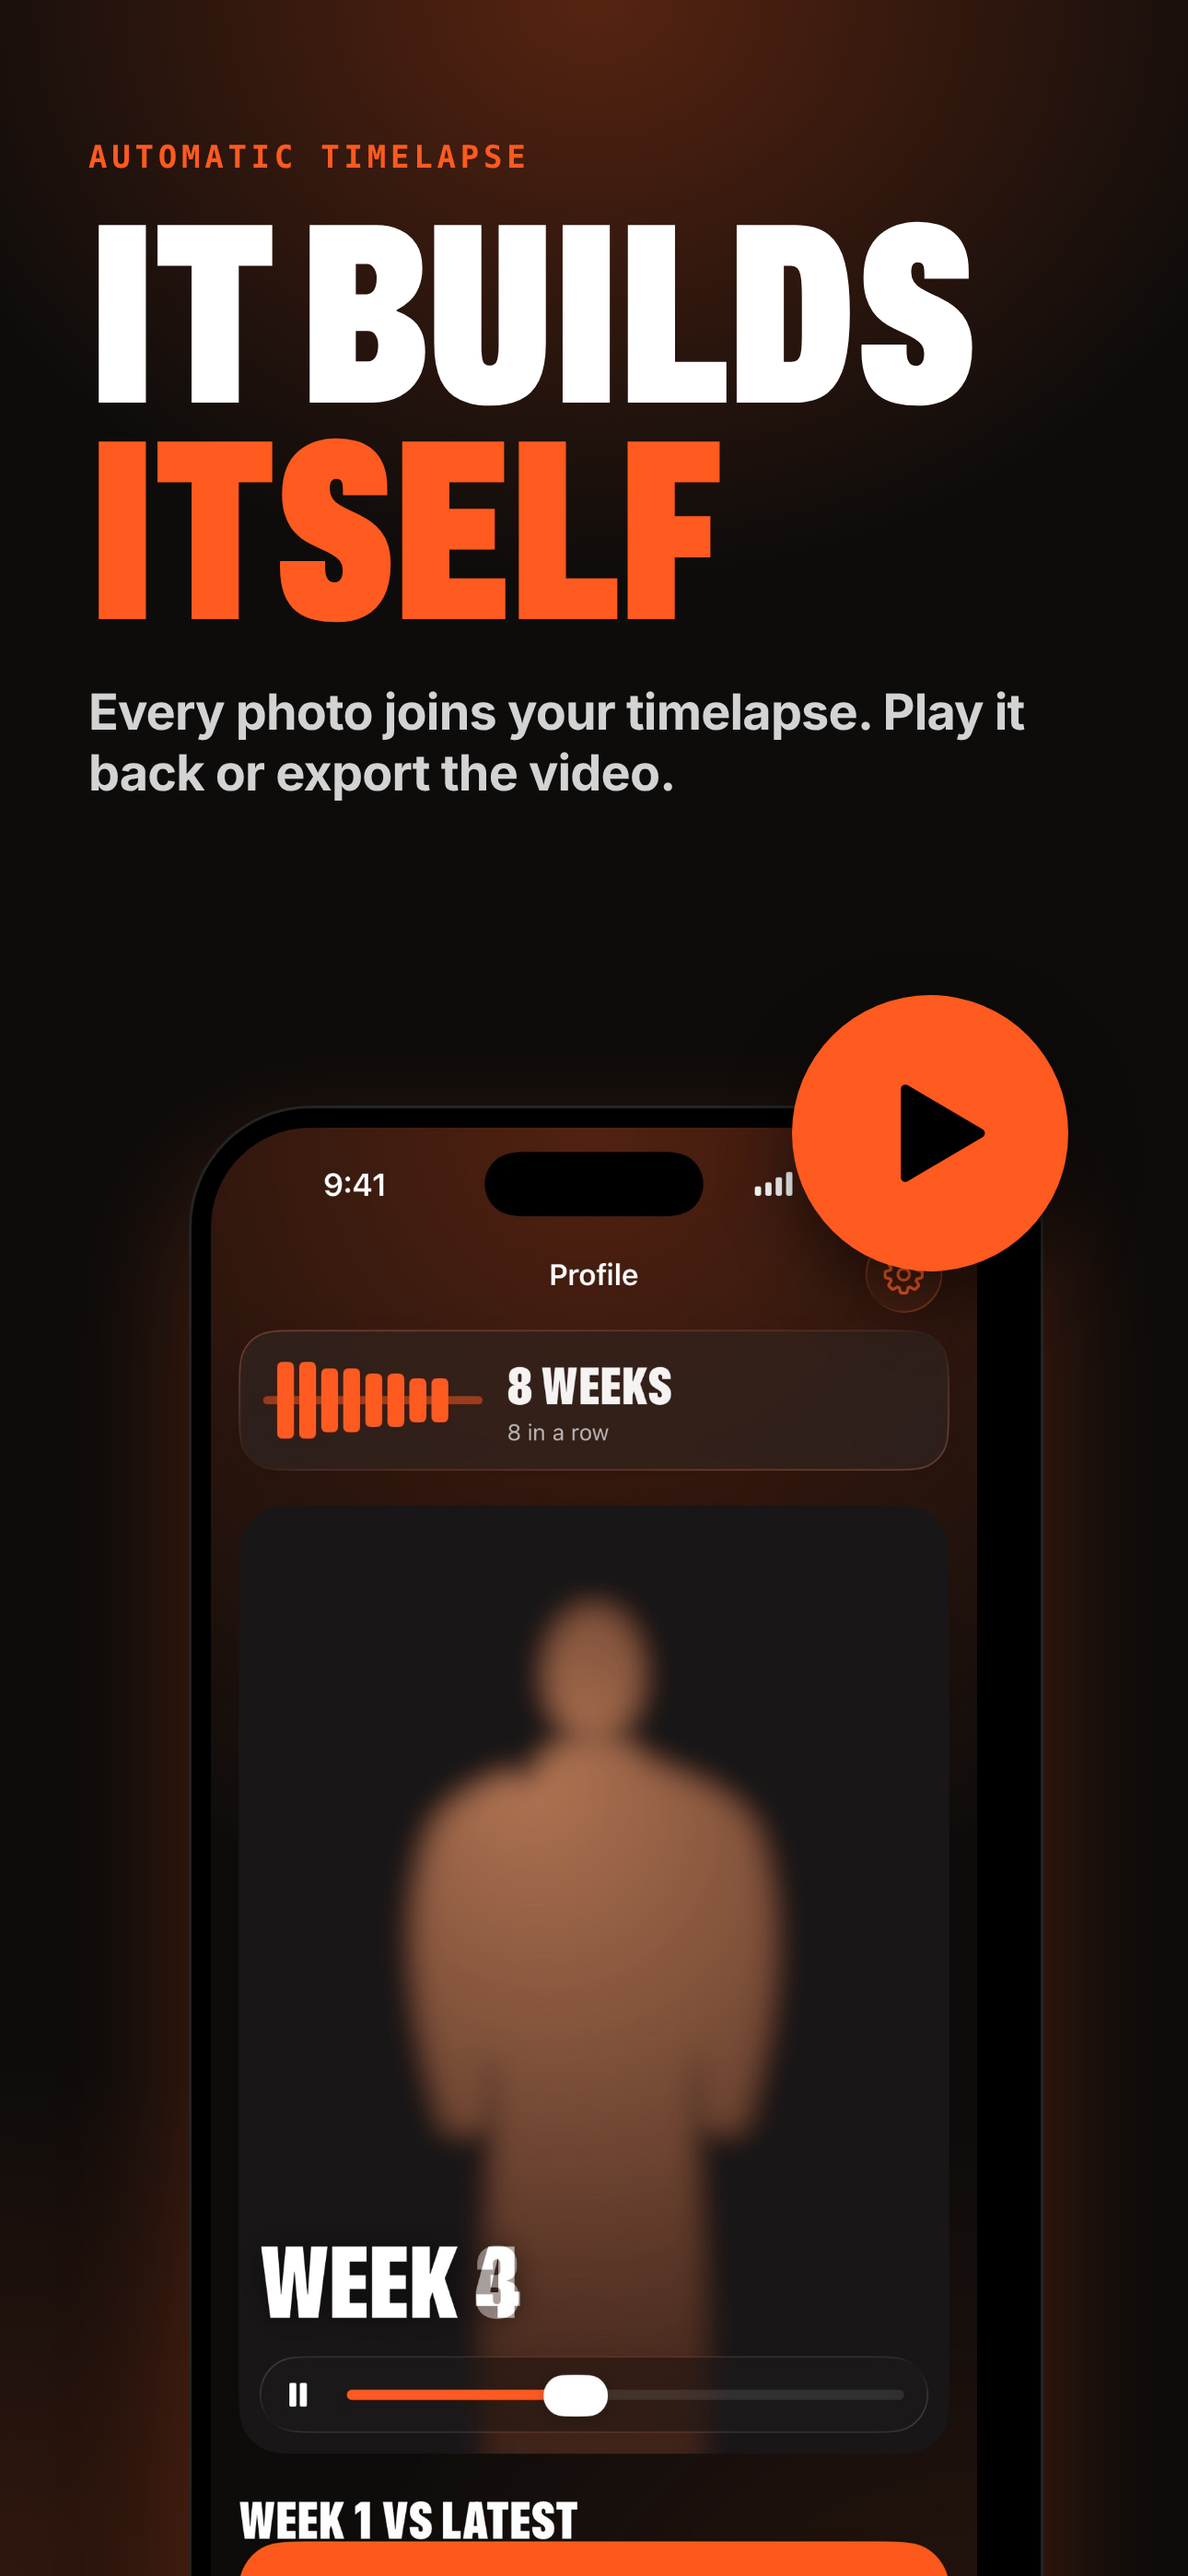
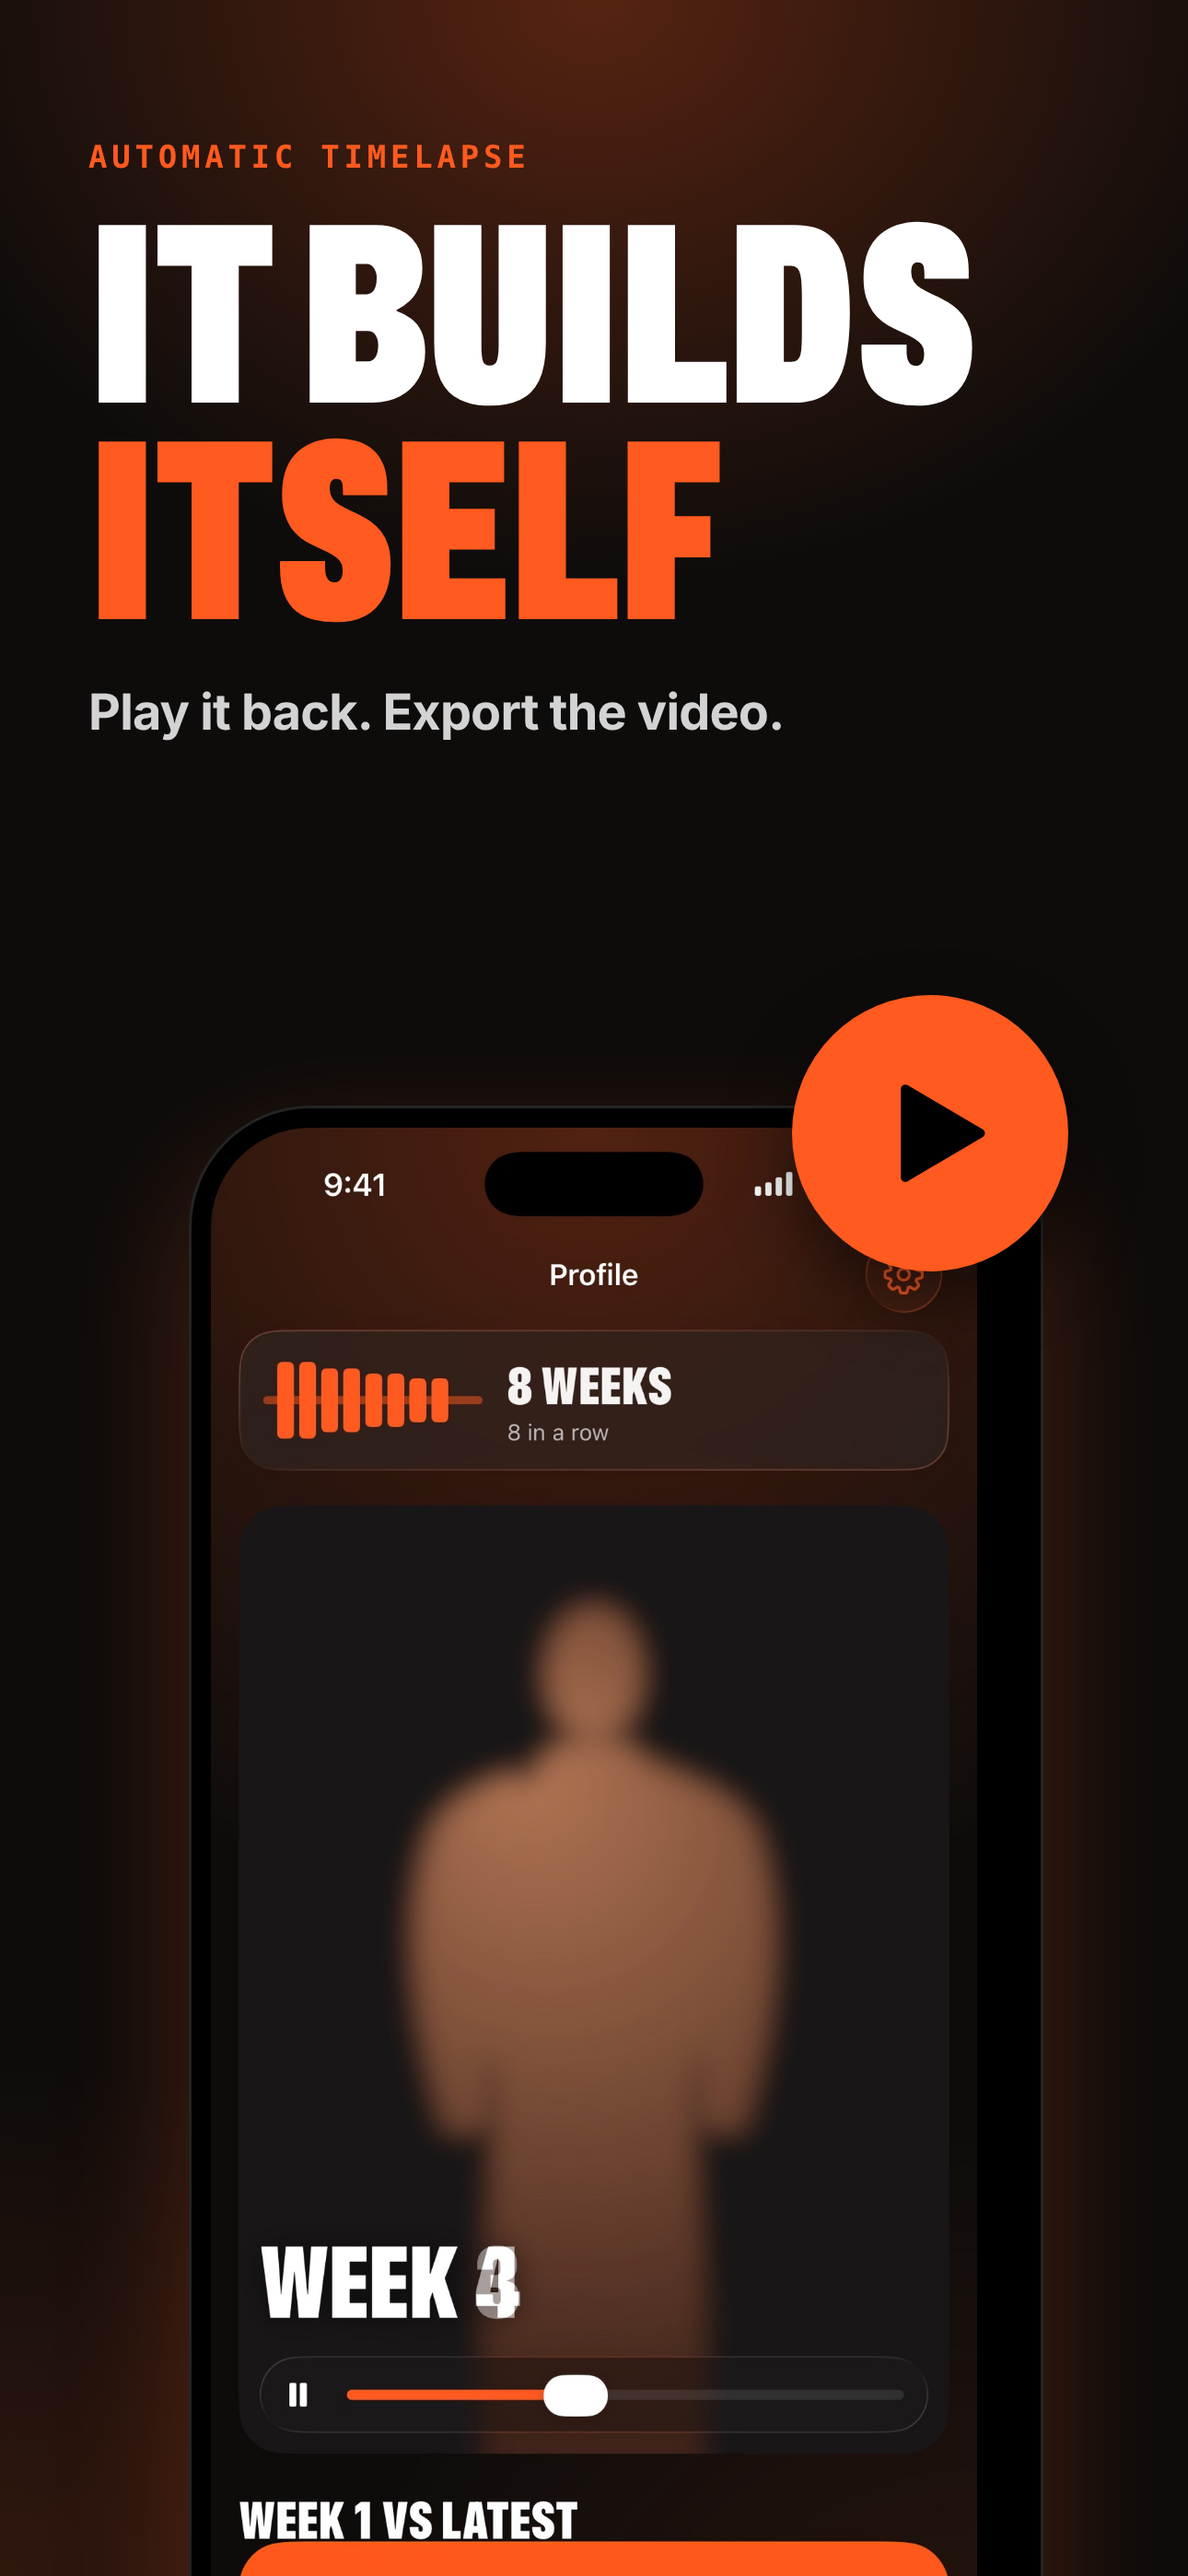
Add header and search-result assets; align screenshots with Apple's asset guidance
Header (21:9), search results (3:2) and universal (16:9) creative assets.
Screenshots drop the free-trial offer, swap drawn UI for real app UI on
the streak frame, and shorten the caption under each headline.

Claude-Session: https://claude.ai/code/session_01Xjs39meRhEB28qNL3bTivs

Changed region(s): [[0.062, 0.2489, 0.7132, 0.3112], [0.7442, 0.2489, 0.8062, 0.28], [0.8372, 0.2489, 0.8682, 0.28]]

diff --git a/Marketing/app-store/metadata.md b/Marketing/app-store/metadata.md
@@ -62,4 +62,20 @@ Fresh look on the App Store, same simple routine: one photo a week, an honest ch
 - Privacy Policy URL: `https://gainlapse.com/privacy`
 
 ## Screenshots (iPhone 6.9" display, 1290 x 2796)
-Upload `screenshots/01.png` through `screenshots/06.png` in order.
+Upload `screenshots/01.png` through `screenshots/06.png` in order. The first three are the ones that show in search results, so they lead with the strongest features.
+
+## Creative assets (iOS 27 and later)
+- Product page header: `creative/header-21x9.png` (3840 x 1646)
+- Search results: `creative/search-results-3x2.png` (3840 x 2560)
+- Universal (header and search results): `creative/universal-16x9.png` (5244 x 2950)
+
+All PNGs are opaque (no alpha), as App Store Connect requires.
+
+## Checked against Apple's asset best practices
+- No pricing, discounts, free-trial offers, URLs or copyright symbols in any image.
+- No ratings, awards, user counts or other claims that can't be verified, and no Apple recognitions.
+- No other platforms' logos.
+- Every screenshot shows real app UI, ordered the way someone uses the app: photo, check-in, timelapse, streak, privacy.
+- Text is a short phrase per frame, not a description.
+- Bodies in the app UI are blurred placeholders, so nothing breaks the 4+ asset rule.
+- Header and universal assets keep the headline and phones in the center of the frame so device cropping doesn't cut them.
